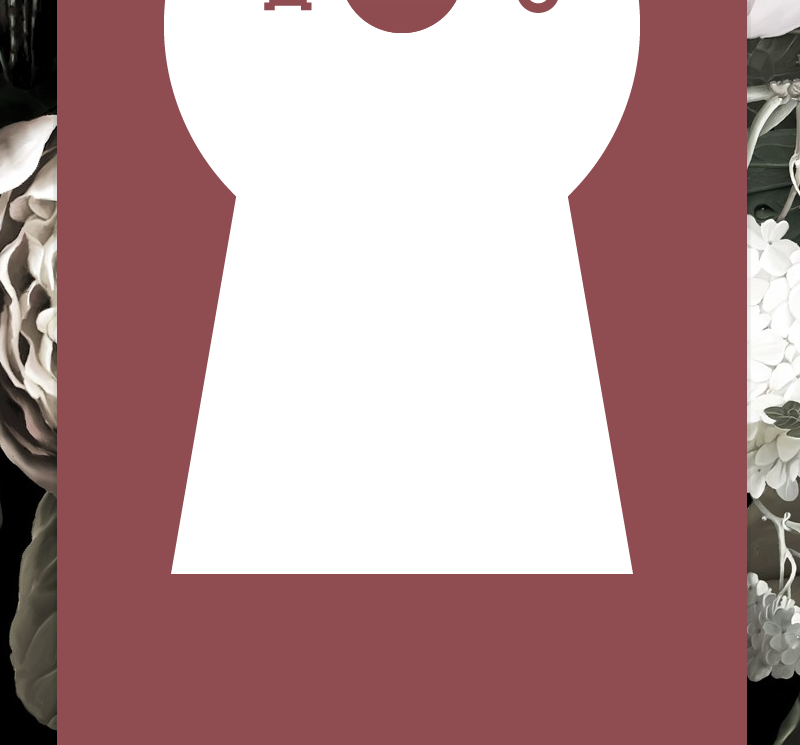
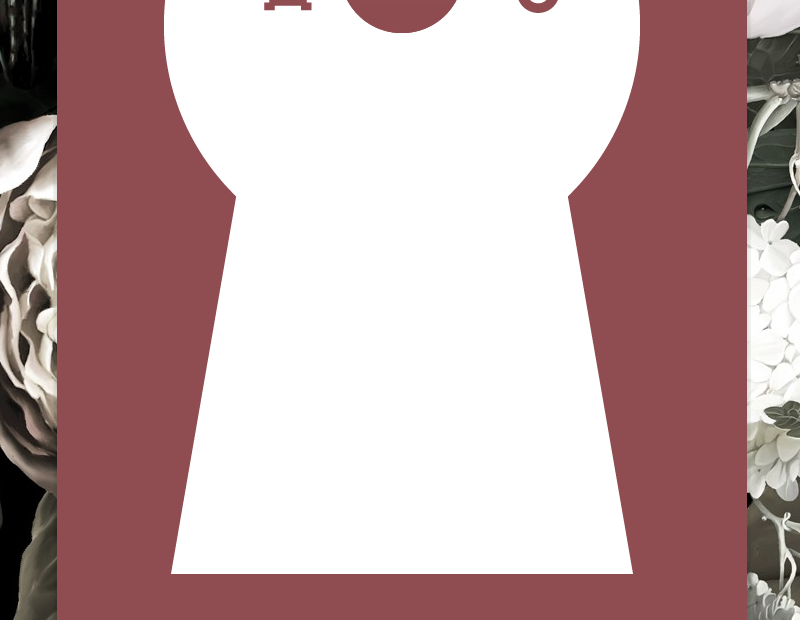
email code tweaks

diff --git a/entry.php b/entry.php
@@ -75,7 +75,7 @@ function sendEmail($email, $code, $goal, $name, $id) {
 	$message .= "<td width='348' height='45'><img style='display: block' src='http://waltonsecret.com/images/email/right.png'/></td>\n";
 	$message .= "</tr>\n";
 	$message .= "<tr>\n";
-	$message .= "<td colspan='3' width='800' height='745' valign='top' style='background: transparent url(http://waltonsecret.com/images/email/bottom.png) left top no-repeat'>\n";
+	$message .= "<td colspan='3' width='800' height='620' valign='top' style='background: transparent url(http://waltonsecret.com/images/email/bottom.png) left top no-repeat'>\n";
 	$message .= "<table cellpadding='0' cellspacing='0' border='0' width='800'>\n";
 	$message .= "<tr>\n";
 	$message .= "<td style='padding-top: 50px;'>\n";

diff --git a/email.php b/email.php
@@ -57,7 +57,7 @@ if($result = mysql_query($query)) {
 				<td width="348"><img src="images/email/right.png"/></td>
 			</tr>
 			<tr>
-				<td colspan="3" width="800" height="745" valign="top" style="background: transparent url(images/email/bottom.png) left top no-repeat">
+				<td colspan="3" width="800" height="620" valign="top" style="background: transparent url(images/email/bottom.png) left top no-repeat">
 					<table cellpadding="0" cellspacing="0" border="0" width="800">
 						<tr>
 							<td style="padding-top: 50px;">
